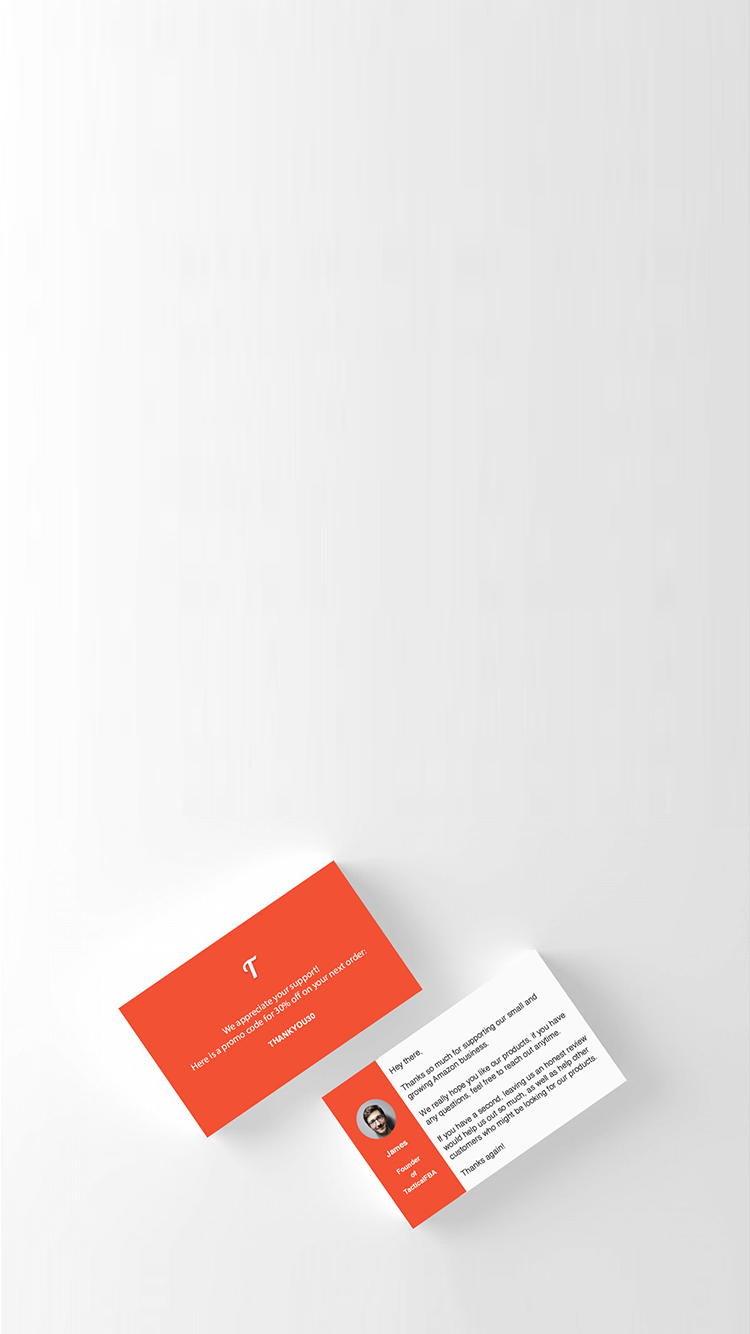
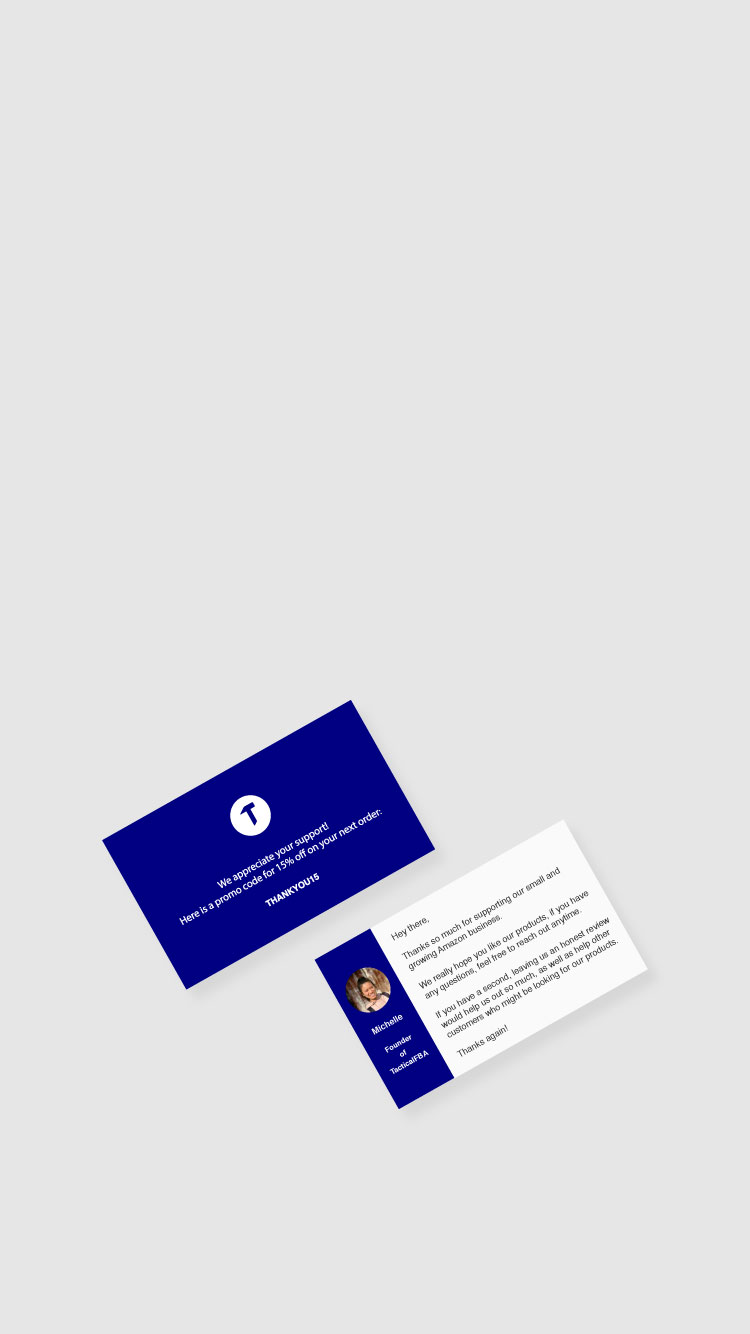
added insert modal

Changed region(s): [[0.1227, 0.5225, 0.8893, 0.922], [0.0, 0.1537, 0.0307, 0.461], [0.0, 0.0615, 0.0307, 0.0922]]

diff --git a/src/components/Account/insertItem.js b/src/components/Account/insertItem.js
@@ -1,10 +1,11 @@
-import React from "react";
+import React, { useState } from "react";
 import { makeStyles } from "@material-ui/core/styles";
 import { CartConsumer } from "../../contexts/CartContext";
 import Card from "@material-ui/core/Card";
 import CardMedia from "@material-ui/core/CardMedia";
 import Button from "@material-ui/core/Button";
 import Box from "@material-ui/core/Box";
+import PreviewModal from "../PreviewModal";
 
 const useStyles = makeStyles({
   root: {
@@ -17,6 +18,19 @@ const useStyles = makeStyles({
 
 export default function InsertCard({ user, insert, location, toStepThree }) {
   const classes = useStyles();
+  const [show, setShow] = useState(false);
+  const [front, setFront] = useState("");
+  const [back, setBack] = useState("");
+  const handleClick = (front, back) => {
+    setShow(true);
+    setFront(front);
+    setBack(back);
+  };
+  const closeModal = () => {
+    setShow(false);
+    setFront("");
+    setBack("");
+  };
 
   const chooseInsert = (pid, iid) => {
     localStorage.setItem("pid", pid);
@@ -25,55 +39,68 @@ export default function InsertCard({ user, insert, location, toStepThree }) {
   };
 
   return (
-    <Card className={classes.root}>
-      <Box display="flex" flexDirection="row" p={2}>
-        <Box flexGrow={1}>{insert.iName}</Box>
-        <Box display="flex" flexDirection="row">
-          {window.location.pathname === "/insert" && (
-            <Box>
-              <Button
-                size="small"
-                color="primary"
-                onClick={() => chooseInsert(insert.pid, insert.iid)}
-              >
-                Use
-              </Button>
-            </Box>
-          )}
-          {location.pathname === "/account" && (
-            <CartConsumer>
-              {({ handleDel }) => (
+    <React.Fragment>
+      {show && (
+        <div onClick={closeModal}>
+          <PreviewModal front={front} back={back} />
+        </div>
+      )}
+      <Card className={classes.root}>
+        <Box display="flex" flexDirection="row" p={2}>
+          <Box flexGrow={1}>{insert.iName}</Box>
+          <Box display="flex" flexDirection="row">
+            {window.location.pathname === "/insert" && (
+              <Box>
                 <Button
                   size="small"
                   color="primary"
-                  onClick={() => handleDel(user, insert.iid, "insert", "iid")}
+                  onClick={() => chooseInsert(insert.pid, insert.iid)}
                 >
-                  Delete
+                  Use
                 </Button>
-              )}
-            </CartConsumer>
-          )}
+              </Box>
+            )}
+            {location.pathname === "/account" && (
+              <CartConsumer>
+                {({ handleDel }) => (
+                  <Button
+                    size="small"
+                    color="primary"
+                    onClick={() => handleDel(user, insert.iid, "insert", "iid")}
+                  >
+                    Delete
+                  </Button>
+                )}
+              </CartConsumer>
+            )}
+          </Box>
         </Box>
-      </Box>
 
-      <Box display="flex" flexDirection="row" justifyContent="center">
-        <CardMedia
-          className={classes.media}
-          component="img"
-          alt="front"
-          image={insert.frontPre}
-          title="front"
-          style={{ padding: "0 8px 8px 8px" }}
-        />
-        <CardMedia
-          className={classes.media}
-          component="img"
-          alt="rear"
-          image={insert.backPre}
-          title="rear"
-          style={{ padding: "0 8px 8px 0" }}
-        />
-      </Box>
-    </Card>
+        <Box
+          display="flex"
+          flexDirection="row"
+          justifyContent="center"
+          onClick={() => handleClick(insert.frontPre, insert.backPre)}
+          style={{ cursor: "pointer" }}
+        >
+          <CardMedia
+            className={classes.media}
+            component="img"
+            alt="front"
+            image={insert.frontPre}
+            title="front"
+            style={{ padding: "0 8px 8px 8px" }}
+          />
+          <CardMedia
+            className={classes.media}
+            component="img"
+            alt="rear"
+            image={insert.backPre}
+            title="rear"
+            style={{ padding: "0 8px 8px 0" }}
+          />
+        </Box>
+      </Card>
+    </React.Fragment>
   );
 }

diff --git a/src/data.js b/src/data.js
@@ -7,7 +7,7 @@ export const samples = [
     frontMsgSec: `<strong>Michelle<br/><br/>Founder<br/>of<br/>TacticalFBA</strong>`,
     rearMsg: `<p>We appreciate your support!</p><p>Here is a promo code for 15% off on your next order:</p><br><p><strong>THANKYOU15</strong></p>`,
     frontImg: `${process.env.PUBLIC_URL}/img/person.jpg`,
-    rearImg: `${process.env.PUBLIC_URL}/img/logo-white.png`,
+    rearImg: `${process.env.PUBLIC_URL}/img/logo-white.jpg`,
     frontPre: "",
     backPre: "",
   },
@@ -17,7 +17,8 @@ export const samples = [
     themeColor: "#002057",
     frontMsgBody:
       "<p>Hey there,</p><br/><p>Thanks so much for supporting our small and growing Amazon business.</p><br/><p>We really hope you like our products, if you have any questions, feel free to reach out anytime.</p><br/><p>If you have a second, leaving us an honest review would help us out so much, as well as help other customers who might be looking for our products.</p><br/><p>Thanks again!</p>",
-    frontMsgSec: "<strong>Michelle<br/><br/>Founder<br/>of<br/>TacticalFBA</strong>",
+    frontMsgSec:
+      "<strong>Michelle<br/><br/>Founder<br/>of<br/>TacticalFBA</strong>",
     rearMsg:
       "<p><strong>Check out our new product!</strong></p><br><p>Lorem ipsum dolor sit amet, consectetuer adipiscing elit, sed diam nonummy nibh euismod tincidunt oreet dolore magna aliquam erat volutpat. Ut wisi enim ad minim veniam, quis nostrud exerci tation</p>",
     frontImg: `${process.env.PUBLIC_URL}/img/person.jpg`,

diff --git a/src/components/Insert/previewTemplate/T1.jsx b/src/components/Insert/previewTemplate/T1.jsx
@@ -151,7 +151,7 @@ const LeftContainer = styled.div`
     margin-top: 1rem;
     color: var(--mainWhite) !important;
     overflow: hidden;
-    font-size: 10px;
+    font-size: 12px;
     width: 90%;
     max-height: 60%;
   }
@@ -173,7 +173,7 @@ const RightWrapper = styled.div`
     height: 80%;
     width: 85%;
     overflow: hidden;
-    font-size: 10px;
+    font-size: 12.5px;
   }
 `;
 
@@ -193,9 +193,9 @@ const RearWrapper = styled.div`
   .rearImg {
     margin: 0 auto;
     border-radius: 50%;
-    width: 30%;
+    width: 20%;
     height: 0;
-    padding-bottom: 30%;
+    padding-bottom: 20%;
   }
 
   .rearText {
@@ -203,7 +203,7 @@ const RearWrapper = styled.div`
     margin-top: 1rem;
     width: 100%;
     max-height: 50%;
-    font-size: 0.75rem;
+    font-size: 0.85rem;
     p {
       color: var(--mainWhite) !important;
     }

diff --git a/src/components/Landing/Cover.js b/src/components/Landing/Cover.js
@@ -18,7 +18,7 @@ export default function Cover() {
           </p>
         </div>
         <Link to="/insert" style={{ textDecoration: "none" }}>
-          <Button variant="contained" size="large" color="primary">
+          <Button className="btnBottom" variant="contained" color="primary">
             Get Started
           </Button>
         </Link>
@@ -51,11 +51,19 @@ const CoverWrapper = styled.div`
         background-size: cover;
         text-align: center;
         .text-wrap {
+            top: 30%;
             left: 50%;
             width: 70%;
             p {
                 margin: 20px 0 40px;
-            }    
+                font-size: 1rem;
+            }
+        }
+        .btnBottom{
+          position: absolute;
+          bottom: -70%;
+          left: 50%;
+          transform: translate(-50%)
         }
 
     

diff --git a/src/components/Insert/index.js b/src/components/Insert/index.js
@@ -2,7 +2,6 @@ import React, { useState } from "react";
 import OpenLoginModal from "../OpenLoginModal";
 
 // UI
-import Container from "@material-ui/core/Container";
 import Box from "@material-ui/core/Box";
 
 // Components
@@ -24,7 +23,7 @@ export default ({ history, location }) => {
     setStep(0);
   };
   return (
-    <Container maxWidth="md">
+    <div className="container">
       <OpenLoginModal />
       <Stepper step={step} />
       {/* steps */}
@@ -52,6 +51,6 @@ export default ({ history, location }) => {
         )}
       </React.Fragment>
       <Box pb={5}>{""}</Box>
-    </Container>
+    </div>
   );
 };

diff --git a/src/components/Blog/BlogList.js b/src/components/Blog/BlogList.js
@@ -1,13 +1,12 @@
 import React from "react";
 import Grid from "@material-ui/core/Grid";
-import Container from "@material-ui/core/Container";
 import Box from "@material-ui/core/Box";
 import BlogItem from "./BlogItem";
 import { PostConsumer } from "./PostContext";
 
 export default function BlogList({ history }) {
   return (
-    <Container maxWidth="md">
+    <div className="container">
       <Box pt={5}></Box>
       <PostConsumer>
         {({ posts }) => (
@@ -29,6 +28,6 @@ export default function BlogList({ history }) {
           </Grid>
         )}
       </PostConsumer>
-    </Container>
+    </div>
   );
 }

diff --git a/src/components/Insert/previewTemplate/T2.jsx b/src/components/Insert/previewTemplate/T2.jsx
@@ -153,7 +153,7 @@ const LeftContainer = styled.div`
     margin-top: 1rem;
     color: var(--mainWhite) !important;
     overflow: hidden;
-    font-size: 10px;
+    font-size: 12px;
     width: 90%;
     max-height: 60%;
   }
@@ -175,7 +175,7 @@ const RightWrapper = styled.div`
     height: 80%;
     width: 85%;
     overflow: hidden;
-    font-size: 10px;
+    font-size: 12.5px;
   }
 `;
 
@@ -205,7 +205,7 @@ const RearWrapper = styled.div`
       width: 72%;
       max-height: 80%;
       overflow: hidden;
-      font-size: 10px;
+      font-size: 12px;
     }
   }
 `;

diff --git a/src/components/Contact/Contact.js b/src/components/Contact/Contact.js
@@ -4,8 +4,8 @@ import ContactForm from "./ContactForm";
 
 export default function Contact() {
   return (
-    <React.Fragment>
-      <Box component="div" textAlign="center">
+    <div className="container ">
+      <Box component="div" textAlign="center" marginBottom="10vh">
         <Box
           component="div"
           textAlign="center"
@@ -15,7 +15,7 @@ export default function Contact() {
           <h4>Contact Us</h4>
         </Box>
         <ContactForm />
-      </Box>
-    </React.Fragment>
+      </Box >
+    </div>
   );
 }

diff --git a/src/components/Insert/TemplateList/TemplateItem.js b/src/components/Insert/TemplateList/TemplateItem.js
@@ -6,7 +6,7 @@ export default class Template extends Component {
     const { stepForward } = this.props;
     const { pid, type, name, img } = this.props.template;
     return (
-      <TemplateWrapper className="col-9 mx-auto col-md-6 col-lg-4 my-3">
+      <TemplateWrapper className="col-9 mx-auto col-md-6 col-lg-3 my-3">
         <div className="card">
           <div className="img-container p-3">
             <img

diff --git a/src/components/Landing/Why.js b/src/components/Landing/Why.js
@@ -52,6 +52,7 @@ const WhyWrapper = styled.div`
 padding-top: 5rem;
 padding-bottom: 5rem;
 h4{
+  padding-left: 30px;
     padding-right: 30px;
     border-right: 3px solid var(--mainOrange);
     color: var(--mainOrange);
@@ -59,6 +60,7 @@ h4{
 
 @media (max-width: 768px) { 
     h4{
+      padding-left: 0;
         border-right: none;
         &::after{
             content: '';

diff --git a/src/components/Landing/Shipping.js b/src/components/Landing/Shipping.js
@@ -22,7 +22,7 @@ export default function Shipping({ history }) {
 const ShippingWrapper = styled.div`
   position: relative;
   width: 100%;
-  height: 40vh;
+  height: 30vh;
   background-color: #3f4354;
   color: #fff;
   text-align: center;

diff --git a/src/components/Contact/ContactForm.js b/src/components/Contact/ContactForm.js
@@ -13,7 +13,7 @@ const useStyles = makeStyles((theme) => ({
   root: {
     padding: theme.spacing(3),
     color: theme.palette.text.secondary,
-    maxWidth: "80vw",
+    maxWidth: "65vw",
     margin: "0 auto",
   },
   form: {
